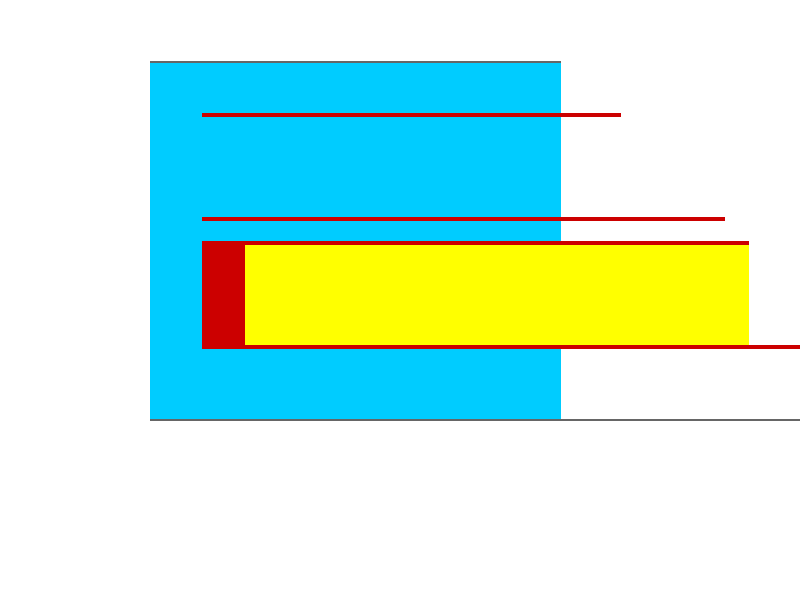
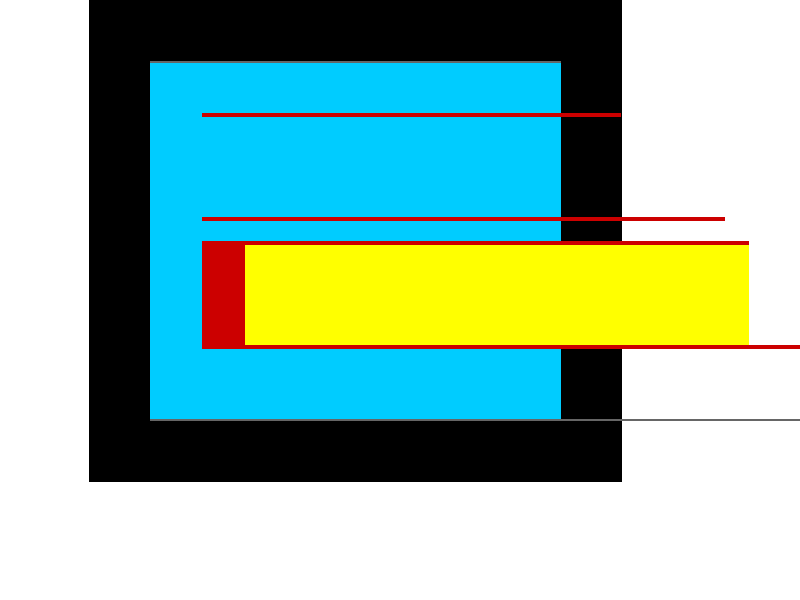
fix: get -o env arg

Changed region(s): [[0.0938, 0.0, 0.7812, 0.81]]

diff --git a/examples/test.css b/examples/test.css
@@ -11,7 +11,7 @@ html {
   padding: 10px;
   border-width: 1px;
   margin: auto;
-  background: #ffffff;
+  background: #000000;
 }
 
 head {
@@ -40,5 +40,5 @@ head {
 
 span#name {
   background: red;
-  color: white;
+  color: blue;
 }
